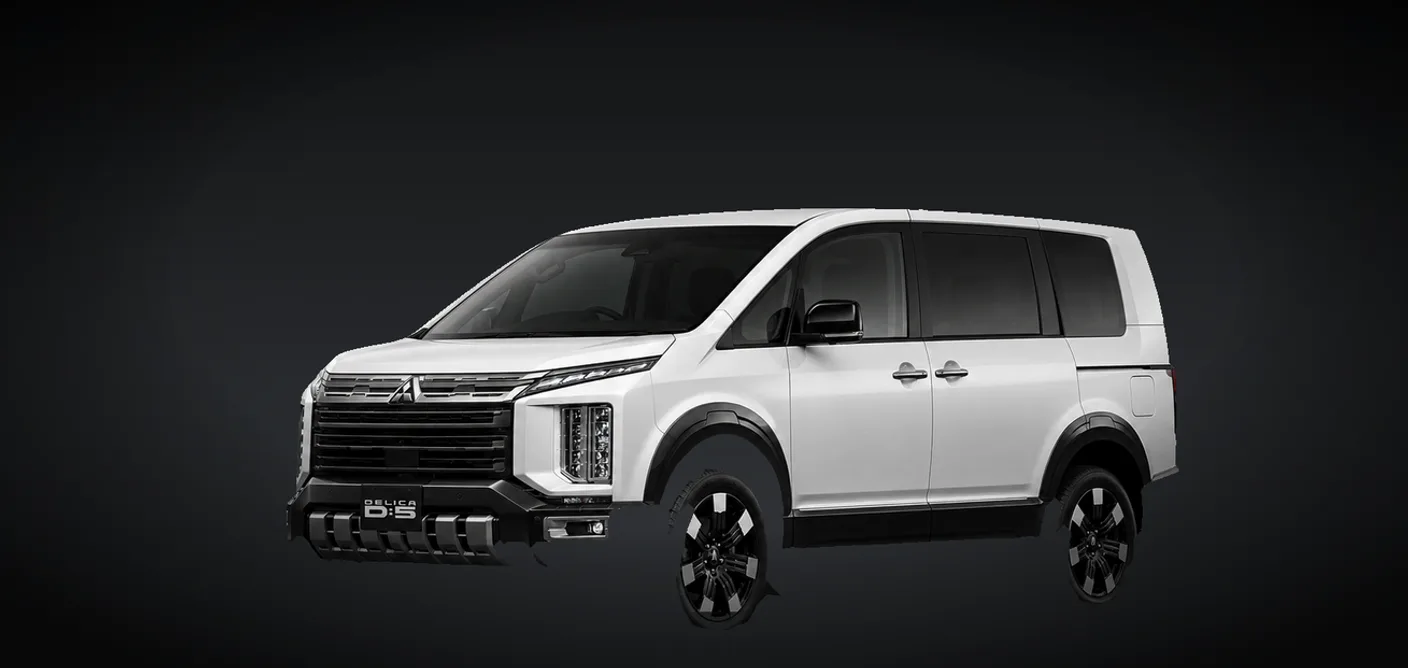
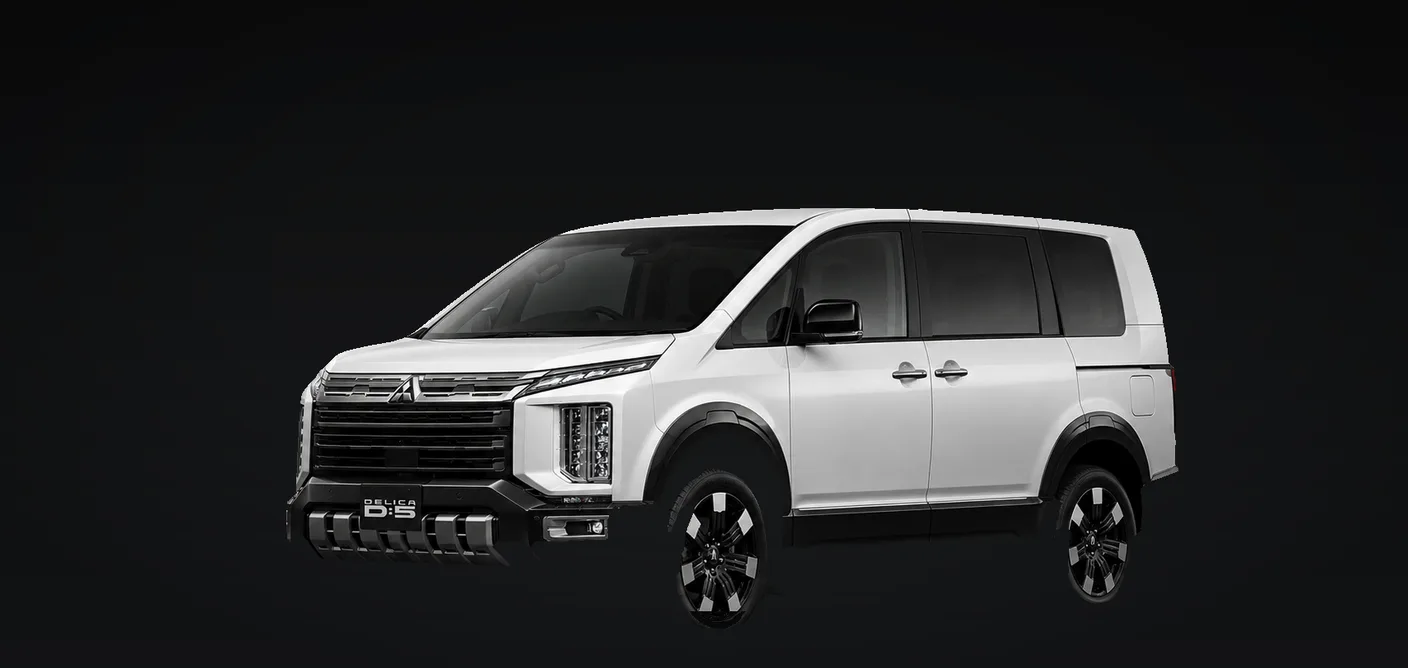
fix: Delica floor-crush wash artifact, English vehicle names
- vehicleName for the 3 new vehicles changed from katakana to English
  (デリカD:5→DELICA D:5, ソリオ→SOLIO, シエンタ→SIENTA), matching
  every other vehicle's convention (VOXY/SERENA/STEPWGN/etc all use
  Latin script for the Hero H1/JSON-LD/page title). seo.title updated
  to match; seo.description keeps the natural Japanese reading in the
  sentence body, same pattern as VOXY's own "トヨタ ヴォクシー...".

- Fixed a real defect in Delica's gen1/gen2 photos: the background-
  removal pass's floor-crush step used a gradient that gets LIGHTER
  toward the bottom of the frame (modeling the general studio wall-to-
  floor brightening used elsewhere) -- applied to floor-crush's
  misclassified-pixel override, that produced a pale washed-out patch
  under the wheels instead of a ground-contact shadow, which read as
  "見えている/透けている" in review. Rebuilt both from the original
  source photos with a corrected pipeline: flat dark fill for the
  floor-crush region instead of the y-dependent gradient, and the
  general background gradient's max value capped lower so it can never
  read as a light wash.

- Delica Hero: attempted reverting to the original デリカTOP.png
  (black, atmospheric) with a black-to-white paint recolor per
  request, but rejected the result on inspection -- a genuinely black
  photo has no hidden white diffuse-reflectance data to recover, so
  lifting shadow/midtone luminance posterized into a harsh edge-lit
  silhouette rather than a clean repaint (documented in the data
[…]

diff --git a/src/cars/delica-d5.js b/src/cars/delica-d5.js
@@ -63,7 +63,7 @@ const generations = [
 
 export default {
   eyebrow: 'CARVISTA',
-  vehicleName: 'デリカD:5',
+  vehicleName: 'DELICA D:5',
   brand: '三菱', // used only for JSON-LD ("三菱 デリカD:5 CV5W型 前期" etc.)
   maker: 'Mitsubishi', // English, for grouping cards on the Home page (see src/home.js) -- CarVista's first Mitsubishi vehicle
   order: 10, // Home page display order within All Cars -- appended after every existing maker (Toyota/Nissan/Honda) so their relative order is untouched; Mitsubishi becomes a new group after Honda.
@@ -102,11 +102,18 @@ export default {
   // the originally-supplied デリカTOP.png, which depicted a black
   // example -- a real color-consistency violation caught in review (see
   // "What Representative Grade and Color are" in design-identity.md).
-  // Recropped for Hero's own tighter/taller framing; background
-  // normalized the same way as every generation photo.
+  // A black-to-white paint recolor of デリカTOP.png itself was tried
+  // and rejected on inspection: a genuinely black photo has no hidden
+  // white diffuse-reflectance data to recover, so lifting shadow/
+  // midtone luminance posterized into a harsh edge-lit silhouette
+  // instead of a clean repaint -- unlike the yellow/beige recolors on
+  // Sienta/Solio, which had real color+saturation to remap. Recropped
+  // for Hero's own tighter/taller framing; background normalized the
+  // same way as every generation photo, plus a vignette/grain pass and
+  // a 7% zoom so the car reads larger on Home's card (same file).
   heroImage: '/images/cars/delica-d5/hero-cv1w-3q.webp',
   seo: {
-    title: 'デリカD:5 歴代モデル一覧 — CarVista',
+    title: 'DELICA D:5 歴代モデル一覧 — CarVista',
     description: '三菱 デリカD:5の前期・後期モデルを画像で比較。オールラウンドミニバンとしての外観の変化が一目でわかる。',
   },
   defaultIndex: 1,

diff --git a/src/cars/solio.js b/src/cars/solio.js
@@ -75,7 +75,7 @@ const generations = [
 
 export default {
   eyebrow: 'CARVISTA',
-  vehicleName: 'ソリオ',
+  vehicleName: 'SOLIO',
   brand: 'スズキ', // used only for JSON-LD ("スズキ ソリオ MA37S型" etc.)
   maker: 'Suzuki', // English, for grouping cards on the Home page (see src/home.js) -- CarVista's first Suzuki vehicle
   order: 11, // Home page display order within All Cars -- appended after every existing maker AND after Delica D:5's new Mitsubishi group, so existing brand order is untouched and Suzuki becomes the newest group.
@@ -118,7 +118,7 @@ export default {
   // representativeColor above. See "What Representative Grade and Color
   // are" in design-identity.md.
   seo: {
-    title: 'ソリオ 歴代モデル一覧 — CarVista',
+    title: 'SOLIO 歴代モデル一覧 — CarVista',
     description: 'スズキ ソリオ全4世代を画像で比較。コンパクトなトールワゴンとしてのデザインの進化が一目でわかる。',
   },
   defaultIndex: 3,

diff --git a/src/cars/sienta.js b/src/cars/sienta.js
@@ -61,7 +61,7 @@ const generations = [
 
 export default {
   eyebrow: 'CARVISTA',
-  vehicleName: 'シエンタ',
+  vehicleName: 'SIENTA',
   brand: 'トヨタ', // used only for JSON-LD ("トヨタ シエンタ MXPL10型" etc.)
   maker: 'Toyota', // English, for grouping cards on the Home page (see src/home.js)
   order: 9, // Home page display order within All Cars -- joins the existing Toyota group (appended after ESQUIRE/5) without disturbing Toyota-Nissan-Honda's own relative order.
@@ -111,7 +111,7 @@ export default {
   // real original saturation). Minor remaining difference from gen3's
   // solid single-tone body; not a full match.
   seo: {
-    title: 'シエンタ 歴代モデル一覧 — CarVista',
+    title: 'SIENTA 歴代モデル一覧 — CarVista',
     description: 'トヨタ シエンタ全3世代を画像で比較。コンパクトミニバンとしてのデザインの進化が一目でわかる。',
   },
   defaultIndex: 2,
